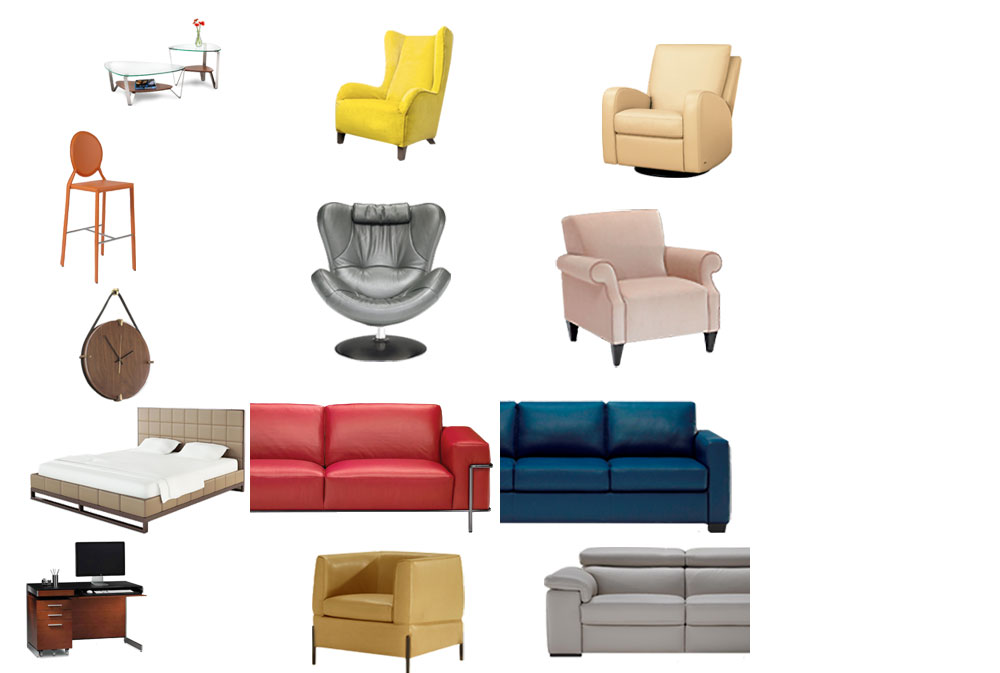
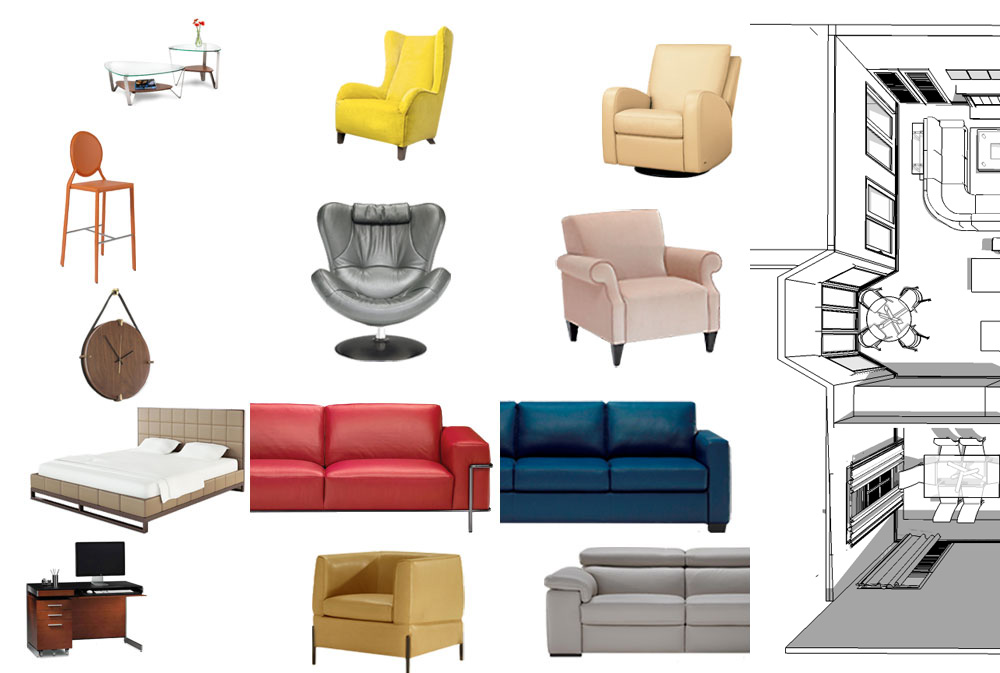
Updated backgrounds in keyhole animation, fixed CSS for product gallery & description page; added scrollber for body so it doesn't overflow

Changed region(s): [[0.744, 0.0312, 1.0, 0.9673]]

diff --git a/themes/furnitheme/css/pages.css b/themes/furnitheme/css/pages.css
@@ -269,11 +269,13 @@ a.active-menu {
 }
 .region-content-top a {
 	text-decoration: none;
-	color: #6d6e71;
-	font-size: 1em;
+	color: #981b1e;
+	border-bottom:1px dotted #981b1e;
+	text-transform: lowercase;
+	font-size: 1.3em;
+	font-weight:bold;
 	position: relative;
 	top: .2em;
-	font-weight: normal;
 }
 div.region-header li a {
 	border-bottom: 1px dotted #6D6E71;
@@ -552,14 +554,15 @@ ul.furn-gallery li.col-last {
 /* 	background:transparent url(../images/gallery-thumb-overlay.png) no-repeat center center; */
 
 /* IE9 SVG, needs conditional override of 'filter' to 'none' */
[1 lines of base64/hex data omitted]
-background: -moz-linear-gradient(top,  rgba(239,239,239,0.2) 0%, rgba(236,236,237,0.95) 35%, rgba(230,231,232,0.95) 100%); /* FF3.6+ */
-background: -webkit-gradient(linear, left top, left bottom, color-stop(0%,rgba(239,239,239,0.2)), color-stop(35%,rgba(236,236,237,0.95)), color-stop(100%,rgba(230,231,232,0.95))); /* Chrome,Safari4+ */
-background: -webkit-linear-gradient(top,  rgba(239,239,239,0.2) 0%,rgba(236,236,237,0.95) 35%,rgba(230,231,232,0.95) 100%); /* Chrome10+,Safari5.1+ */
-background: -o-linear-gradient(top,  rgba(239,239,239,0.2) 0%,rgba(236,236,237,0.95) 35%,rgba(230,231,232,0.95) 100%); /* Opera 11.10+ */
-background: -ms-linear-gradient(top,  rgba(239,239,239,0.2) 0%,rgba(236,236,237,0.95) 35%,rgba(230,231,232,0.95) 100%); /* IE10+ */
-background: linear-gradient(to bottom,  rgba(239,239,239,0.2) 0%,rgba(236,236,237,0.95) 35%,rgba(230,231,232,0.95) 100%); /* W3C */
-filter: progid:DXImageTransform.Microsoft.gradient( startColorstr='#33efefef', endColorstr='#f2e6e7e8',GradientType=0 ); /* IE6-8 */
[1 lines of base64/hex data omitted]
+background: -moz-linear-gradient(top,  rgba(239,239,239,0.2) 0%, rgba(155,155,155,0.6) 35%, rgba(0,0,0,0.6) 100%); /* FF3.6+ */
+background: -webkit-gradient(linear, left top, left bottom, color-stop(0%,rgba(239,239,239,0.2)), color-stop(35%,rgba(155,155,155,0.6)), color-stop(100%,rgba(0,0,0,0.6))); /* Chrome,Safari4+ */
+background: -webkit-linear-gradient(top,  rgba(239,239,239,0.2) 0%,rgba(155,155,155,0.6) 35%,rgba(0,0,0,0.6) 100%); /* Chrome10+,Safari5.1+ */
+background: -o-linear-gradient(top,  rgba(239,239,239,0.2) 0%,rgba(155,155,155,0.6) 35%,rgba(0,0,0,0.6) 100%); /* Opera 11.10+ */
+background: -ms-linear-gradient(top,  rgba(239,239,239,0.2) 0%,rgba(155,155,155,0.6) 35%,rgba(0,0,0,0.6) 100%); /* IE10+ */
+background: linear-gradient(to bottom,  rgba(239,239,239,0.2) 0%,rgba(155,155,155,0.6) 35%,rgba(0,0,0,0.6) 100%); /* W3C */
+filter: progid:DXImageTransform.Microsoft.gradient( startColorstr='#33efefef', endColorstr='#99000000',GradientType=0 ); /* IE6-8 */
+
 
 
 	cursor:pointer;
@@ -580,7 +583,7 @@ filter: progid:DXImageTransform.Microsoft.gradient( startColorstr='#33efefef', e
 	font-weight: bold;
 }
 .furn-gallery .item-details h2 a {
-	color:#981b1e;
+	color:white;
 	text-transform: uppercase;
 }
 .furn-gallery .item-details header {
@@ -588,19 +591,22 @@ filter: progid:DXImageTransform.Microsoft.gradient( startColorstr='#33efefef', e
 	padding-bottom:8px;
 }
 .furn-gallery .item-details .product-info {
-	font-size:1em;
+	font-size:.85em;
+	font-weight: 600;
 }
 div.item-details .field-name-field-availability {
-	width: 11em;
 	margin: .5em auto 0 auto;
 }
-.furn-gallery .item-details .sell-price, .furn-gallery .item-details .field-name-field-availability {
+.furn-gallery .item-details .sell-price {
+	color:#981b1e;
+	font-size:1.35em;
+	font-weight:bold;
+}
+.furn-gallery .item-details .sell-price .uc-price-label, .furn-gallery .item-details .field-name-field-availability {
+	font-size: .8em;
+	font-weight: bold;
 	color:#981b1e;
 }
-div.view .item-details .field-name-field-availability {
-	color: #6D6E80;
-}
-
 div.keyhole {
 	background:transparent url(../images/keyhole-categories.png) no-repeat center center;
 	width: 250px;
@@ -663,20 +669,25 @@ article #page-title {
 	text-transform: uppercase;
 	color: #981b1e;
 }
-article.about-us
 
 .item-info-p, .field-label, article .sell-price {
 	font-size:1em;
 	font-weight:300;
 	text-transform: uppercase;
 }
+article .sell-price {
+	text-transform: none;
+}
 .field .field-label {
 	font-weight: 300;
 }
 article .sell-price {
 	color:#981b1e;
+	font-weight: bold;
+	font-size: 1.3em;
+	line-height: 1.5em;
 }
-article .old-price {
+article .old-price .uc-price, article .list-price .uc-price {
 	text-decoration:line-through;
 }
 #item-info .field-name-field-availability div.field-item {
@@ -735,6 +746,11 @@ article.view-mode-full {
 	/* border:1px dashed red; */
 	margin-left:10px;
 }
+article.node-item .field-name-body .field-item {
+	height:150px;
+	width:100%;
+	overflow: auto;
+}
 #pikawrapper {
 	height:150px;
     width:100%;
@@ -763,6 +779,18 @@ article.view-mode-full {
 	background: none;
 	bottom: 0;
 	height:25px;
+}
+.jspVerticalBar {
+	background:none;
+	width:25px;
+}
+.jspVerticalBar .jspDrag {
+	top:0;
+	left:-.9em;
+}
+.jspVerticalBar .jspTrack {
+	border-left: 1px solid #981b1e;
+	left: .5em;
 }
 .item-info-p, .field-label {
 	color:#981b1e;

diff --git a/themes/furnitheme/js/script.js b/themes/furnitheme/js/script.js
@@ -222,6 +222,15 @@ var skipAnimation = false;
 
 			});
 			
+			$("article.node-item .field-name-body .field-item").jScrollPane({
+			     verticalDragMinHeight: 25,
+				 verticalDragMaxHeight: 25,
+				 horizontalDragMinWidth: 25,
+				 horizontalDragMaxWidth: 25
+		    });
+		    
+		    console.log($("article.node-item .field-name-body .field-item"));
+			
         }
 	}
 	
@@ -261,7 +270,8 @@ var skipAnimation = false;
 			icons:false,
 			collapsible: true,
 			active: false,
-			heightStyle:'content'
+			heightStyle:'content',
+			animate:300
 		});
 		
 		//set active menu link in accordion
@@ -297,6 +307,11 @@ var skipAnimation = false;
 		$('#bg3').hover(function(e){
 			SetUpCategorySlider("bg3");
 			KeyHoleScroll(3);
+			
+		}, function(){});
+		
+		$('#bg4').hover(function(e){
+			KeyHoleScroll(4);
 			
 		}, function(){});
 		

diff --git a/themes/furnitheme/template.php b/themes/furnitheme/template.php
@@ -149,7 +149,7 @@ function preprocess_node_common_fields(&$content, $hook) {
 
 
 	$content['list_price']['#title'] = "MSRP:";
-	$content['sell_price']['#title'] = "Furnitalia:";
+	unset($content['sell_price']['#title']);
 
 	
 	$sale_price_set = !empty($content['field_sale_price']) && isset($content['field_sale_price']['#items']) && $content['field_sale_price']['#items'][0]['value'];
@@ -157,13 +157,14 @@ function preprocess_node_common_fields(&$content, $hook) {
 	if($sale_price_set) {
 		$new_sale_price = array();
 		
-		$new_sale_price['#title'] = "Special:";
+		$new_sale_price['#title'] = "special:";
 		$new_sale_price['#theme'] = "uc_product_price";
 		$new_sale_price['#value'] = $content['field_sale_price']['#items'][0]['value'];
 		$new_sale_price['#attributes'] = array('class' => array('sell-price'));
 		
 		$content['sale_price'] = $new_sale_price;
 		$content['sell_price']['#attributes']['class'] = array('old-price');
+		$content['sell_price']['#title'] = "regular:";
 	  	
 	} else {
 		
